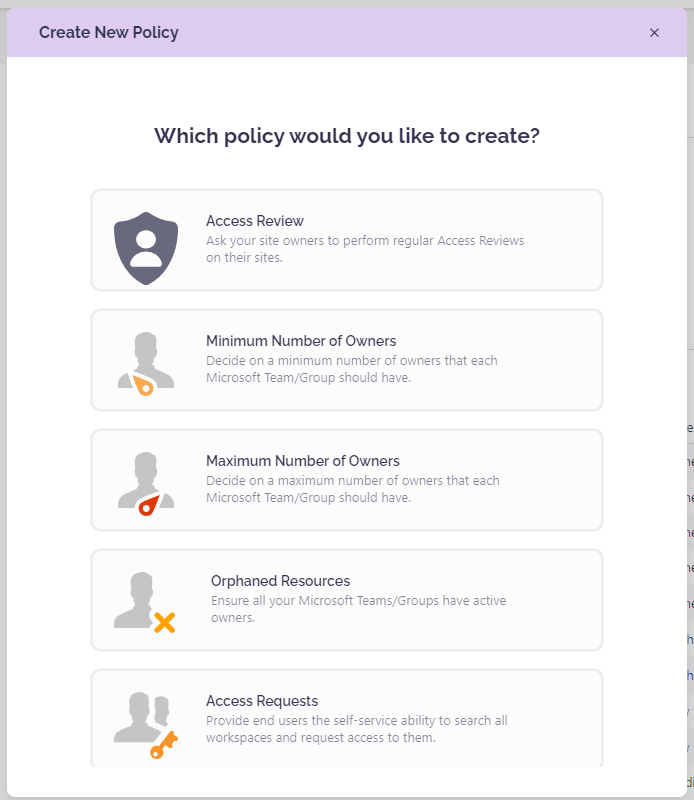
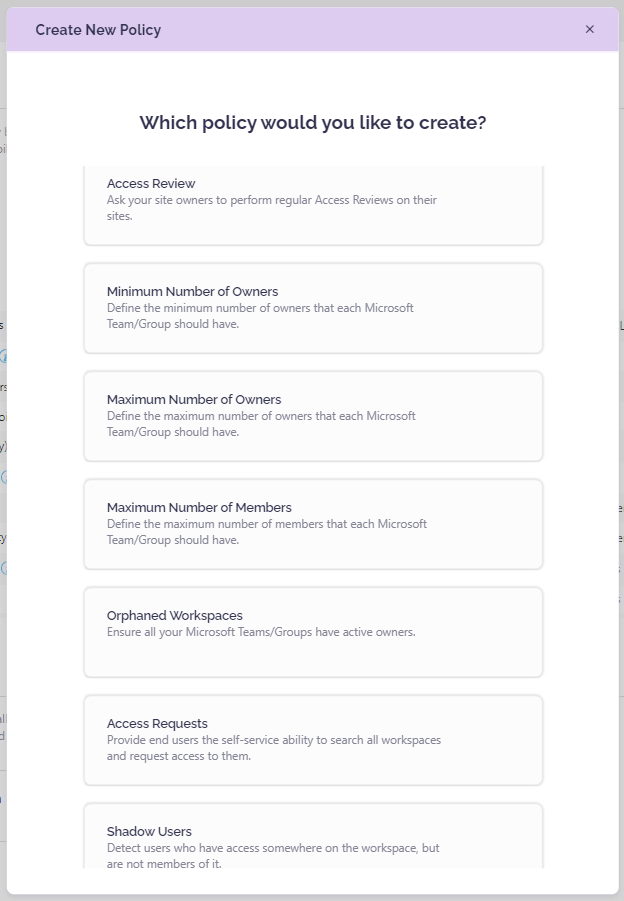
update to policy apply

diff --git a/governance-and-automation/automated-workflows/manage-policies.md b/governance-and-automation/automated-workflows/manage-policies.md
@@ -16,6 +16,7 @@ You can choose from the following:
 * **Orphaned Workspaces**
 * [**Access Requests**](../../governance-and-automation/access-requests/README.md)
   * For more details on access requests in Syskit Point, read the [Access Requests section](../../governance-and-automation/access-requests/README.md).
+* **Shadow Users**
 
 ![Create New Policy Dialog](../../.gitbook/assets/set-up-automated-workflows-create-policy-dialog.png)
 
@@ -23,13 +24,36 @@ You can choose from the following:
 
 [You can also find more information on Access Review policies in the following article.](../permissions-review/enable-permissions-review.md)
 
-## Manage Policies
+## Apply Policies
 
 **When the policies are defined**, the last thing left to do is to **apply them to Microsoft Teams, Microsoft 365 Groups, OneDrive, and Sites**. 
 
-To do so, navigate to the Policies settings screen and click the **Manage Policies (1)** button.
+Policies can be applied to workspaces either **manually or automatically**.  
 
-![Manage Policies](../../.gitbook/assets/set-up-automated-workflows-apply-policy.png)
+### Apply Automatically
+
+Applying policies manually means that policies are automatically applied to workspaces based on the [Rules](../automated-workflows/policy-automation.md) you created and the conditions you set. 
+
+To ensure policies are automatically applied, open the Policies settings screen, navigate to the Apply Policies section, and click the **Apply Automatically with Rules button (1)**.
+
+This redirects you to the **Rules** screen in the Settings of your Syskit Point. 
+
+[For a detailed explanation of how Rules work and how to set them up, please read through our Rules article.](../automated-workflows/policy-automation.md) 
+
+![Apply Policies - Automatically](../../.gitbook/assets/set-up-automated-workflows-apply-policy-automatic.png)
+
+### Apply Manually
+
+Applying policies manually means you can select the workspaces to which you want a specific policy applied. 
+
+{% hint style="information" %}
+**If you have [Rules](../automated-workflows/policy-automation.md) set up**, when you automatically apply a policy to a workspace that already had a policy of the same type assigned via Rules, the policy that was automatically assigned will be replaced with the new manually applied policy. 
+
+{% endhint %}
+
+To start, open the Policies settings screen, navigate to the Apply Policies section, and click the Manually Apply Policies button.
+
+![Apply Policies - Manually](../../.gitbook/assets/set-up-automated-workflows-apply-policy-manual.png)
 
 The Manage Policies screen opens where you can:
 * **Find workspaces that don't have any policies applied (1)**; when the tile is clicked, the report only displays workspaces that have no policies applied
@@ -46,11 +70,20 @@ The Manage Policies screen opens where you can:
 
 After clicking the **Manage Policies (6)** button, the **Manage Policy** dialog opens, where you can **select a policy** and **apply** the chosen policy on the selected workspaces grouped by the policy type.
 
+{% hint style="information" %}
+
+When manually applying a policy, you **receive a warning** that it will replace any automatically assigned policies. The warning will still appear even if you do not have Rules set up.  
+
+{% endhint %}
+
 ![Manage Policies Dialog](../../.gitbook/assets/set-up-automated-workflows-apply-policy-dialog.png)
+
+
 
 {% hint style="success" %}
 **Once a policy is applied, Syskit Point automates detection for a policy vulnerability**. 
 {% endhint %}
+
 
 You can find an article on how to create or edit each policy here:
 * [**Minimum Number of Owners**](minimum-number-of-owners-admin.md)
@@ -59,3 +92,5 @@ You can find an article on how to create or edit each policy here:
 * [**Inactive Guest Users**](inactive-guest-users-admin.md)
 * [**Blocked Users with Assigned Licenses**](blocked-users-with-licenses-admin.md)
 * [**Orphaned Users**](orphaned-users-admin.md)
+* [**Shadow Users**](shadow-users-admin.md)
+
